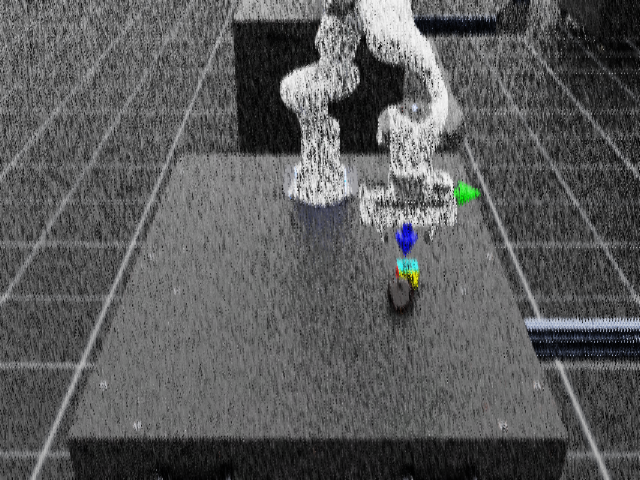
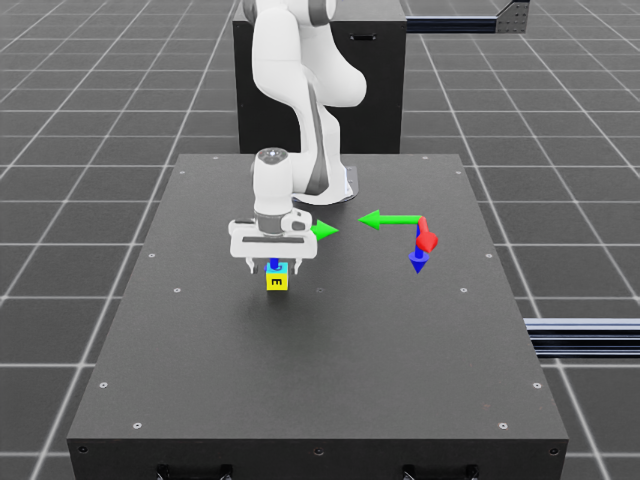
refactored grasping, controller working, visualization added

diff --git a/main.py b/main.py
@@ -41,55 +41,10 @@ from omni.isaac.lab.utils.math import subtract_frame_transforms, quat_from_matri
 from omni.isaac.lab.envs import ManagerBasedRLEnvCfg
 
 from planner import MotionPlanner
-from cleandakitchen import TestWrapper
+from customenv import TestWrapper
+from omegaconf import OmegaConf
+from customenv.cube_env import pos_and_quat_from_matrix
 
-# These are all things I tried to make curobo grasp correctly: 
-
-# def pos_and_quat_from_matrix(transform_mat):
-#     pos = transform_mat[:3, -1]
-#     quat = quat_from_matrix(transform_mat[:3, :3])
-#     return pos, quat
-
-def pos_and_quat_from_matrix(transform_mat):
-    transform_mat = np.array(transform_mat)  # Convert the list of lists to a numpy array
-    pos = torch.tensor(transform_mat[:3, -1], dtype=torch.float32)
-    quat = torch.tensor(transform_mat[:3, :3], dtype=torch.float32)  # Convert to tensor for further processing
-    quat_res = quat_from_matrix(quat)
-      # Quaternion representing a 180-degree rotation around the x-axis
-    quat_180_x = torch.tensor([0.0, 1.0, 0.0, 0.0], dtype=torch.float32)
-    # Rotate the quaternion by 180 degrees
-    rotated_quat = quaternion_multiply(quat_res, quat_180_x)
-    return quat, rotated_quat
-
-def quaternion_multiply(q, r):
-    w1, x1, y1, z1 = q
-    w2, x2, y2, z2 = r
-    w = w1 * w2 - x1 * x2 - y1 * y2 - z1 * z2
-    x = w1 * x2 + x1 * w2 + y1 * z2 - z1 * y2
-    y = w1 * y2 - x1 * z2 + y1 * w2 + z1 * x2
-    z = w1 * z2 + x1 * y2 - y1 * x2 + z1 * w2
-    return torch.tensor([w, x, y, z], dtype=torch.float32)
-# def quaternion_multiply(q, r):
-#     w1, x1, y1, z1 = q
-#     w2, x2, y2, z2 = r
-#     w = w1 * w2 - x1 * x2 - y1 * y2 - z1 * z2
-#     x = w1 * x2 + x1 * w2 + y1 * z2 - z1 * y2
-#     y = w1 * y2 - x1 * z2 + y1 * w2 + z1 * x2
-#     z = w1 * z2 + x1 * y2 - y1 * x2 + z1 * w2
-#     return torch.tensor([w, x, y, z], dtype=torch.float32)
-
-# def pos_and_quat_from_matrix(transform_mat):
-#     pos = torch.tensor(transform_mat[:3, -1], dtype=torch.float32)
-#     quat = torch.tensor(transform_mat[:3, :3], dtype=torch.float32)  # Convert to tensor for further processing
-#     quat_res = quat_from_matrix(quat)
-
-#     # Quaternion representing a 180-degree rotation around the x-axis
-#     quat_180_x = torch.tensor([0.0, 1.0, 0.0, 0.0], dtype=torch.float32)
-
-#     # Rotate the quaternion by 180 degrees
-#     rotated_quat = quaternion_multiply(quat_res, quat_180_x)
-
-#     return pos, rotated_quat
 
 def main():
     # create environment configuration
@@ -105,63 +60,68 @@ def main():
     print(f"[INFO]: Gym action space: {env.action_space}")
     # reset environment
     obs, info = env.reset()
-    camera_data = env.get_camera_data()
     planner = MotionPlanner(env)
+    # Temp fix to image rendering, so that it captures rgb correctly before entering.
+    for _ in range(10):
+        action = torch.tensor(env.action_space.sample()).to(env.device)
+        env.step(action)
     # simulate environment
     print("begin!")
     while simulation_app.is_running():
         # run everything in inference mode
         joint_pos, joint_vel, joint_names = env.get_joint_info()
-        meta_data, rgb, seg, depth = env.get_camera_data()
+        rgb, seg, depth, meta_data = env.get_camera_data()
         # Not always consistent, hit or miss, currently using 25 inference passes from M2T2 config
         cfg = OmegaConf.load("/home/jacob/projects/clean-up-the-kitchen/M2T2/config.yaml")
         data, outputs = load_and_predict(cfg, meta_data, rgb, depth, seg)
-
         # Visualize through meshcat-viewer
         visualize(cfg, data, outputs)
-        # Gives transformation matricies for each object
-        grasps = np.array(outputs['grasps'])
-        grasp_conf = torch.tensor(outputs['grasp_confidence'], dtype = torch.float32)
-        grasp_conf = outputs['grasp_confidence']
         # Currently only support for grasping one type of object in one environment
+        # So if there are four objects with different num grasps, it will not work.
+        if len(outputs['grasps']) > 0:
+            grasps = np.array(outputs['grasps'][0])  # Just the first object
+            grasp_conf = np.array(outputs['grasp_confidence'][0])
+            sorted_indices = np.argsort(grasp_conf)[::-1]  # Get indices sorted in descending order
+            grasps = grasps[sorted_indices]
 
-        if grasps.size > 0 and len(grasps[0]) == len(grasp_conf):
-            sorted_indices = sorted(range(len(grasp_conf)), key=lambda i: grasp_conf[i], reverse=True)
-            grasps = grasps[0][sorted_indices]
-            grasp_conf = [grasp_conf[i] for i in sorted_indices]
-        else:
-            print("Length of grasps and grasp_confidence do not match.")
-        sorted_indices = torch.argsort(grasp_conf, descending = True) 
-        grasps = grasps[sorted_indices]
-        success = False
-        for i in range(grasps[0].shape[0]):
-            best_grasp = grasps[0][i]
-            pos, quat = pos_and_quat_from_matrix(best_grasp)
-            goal = torch.cat([pos, quat], dim=0).unsqueeze(0).repeat(env.num_envs, 1).to(env.unwrapped.device)
-            plan, success = planner.plan(joint_pos, joint_vel, joint_names, goal, mode="ee_pose")
+            success = False
+            for i in range(grasps.shape[0]):
+                # import pdb
+                # pdb.set_trace()
+                best_grasp = torch.tensor(grasps[i], dtype = torch.float32)
+                # best_grasp = [[-0.9347, -0.3248, -0.1441,  0.7071],
+                #         [-0.2930,  0.9339, -0.2047,  0.0223],
+                #         [ 0.2010, -0.1492, -0.9682,  0.2013],
+                #         [ 0.0000,  0.0000,  0.0000,  1.0000]]
+                # best_grasp = torch.tensor(best_grasp)
+                # This pos and quat method is acting weirdly, why is all pos all 0?
+                pos, quat = pos_and_quat_from_matrix(best_grasp)
+                goal = torch.cat([pos, quat], dim=0).unsqueeze(0).repeat(env.num_envs, 1).to(env.unwrapped.device)
+                plan, success = planner.plan(joint_pos, joint_vel, joint_names, goal, mode="ee_pose")
+                if success:
+                    # print(f"Grasp {i} succeeded with confidence {grasp_conf[sorted_indices[i]]}")
+                    # print(f"Grasp {i} succeeded with confidence {grasp_conf[i]}")
+                    break
             if success:
-                # print(f"Grasp {i} succeeded with confidence {grasp_conf[sorted_indices[i]]}")
-                # print(f"Grasp {i} succeeded with confidence {grasp_conf[i]}")
-                break
-        if success:
-            with torch.inference_mode():
-                if not success:
-                    env.reset()
-                    continue
-                plan = planner.pad_and_format(plan)
-                for pose in plan:
-                    gripper = torch.ones(env.num_envs, 1).to(0)
-                    try:
-                        action = torch.cat((pose, gripper), dim=1)
-                    except:
-                        breakpoint()
-                        plan = planner.plan(joint_pos, joint_vel, joint_names, goal, mode="ee_pose")
-                    env.step(action)
+                with torch.inference_mode():
+                    if not success:
+                        env.reset()
+                        continue
+                    plan = planner.pad_and_format(plan)
+                    for pose in plan:
+                        gripper = torch.ones(env.num_envs, 1).to(0)
+                        try:
+                            action = torch.cat((pose, gripper), dim=1)
+                        except:
+                            breakpoint()
+                            plan = planner.plan(joint_pos, joint_vel, joint_names, goal, mode="ee_pose")
+                        
+                        # breakpoint()
+                    # action = torch.tensor(env.action_space.sample()).to(env.device)
+                        env.step(action)
         else:
             print("No successful grasp found")
-        env.close()
-
-            # env.reset()
+        #env.reset()
     # close the simulator
     env.close()
 

diff --git a/customenv/cube_env.py b/customenv/cube_env.py
@@ -42,7 +42,7 @@ class CubeSceneCfg(InteractiveSceneCfg):
         prim_path="{ENV_REGEX_NS}/Robot"
     )
 
-    # whole scene cant be 1 rigid object
+    # # whole scene cant be 1 rigid object
     object = RigidObjectCfg(
         prim_path="{ENV_REGEX_NS}/Object",
         init_state=RigidObjectCfg.InitialStateCfg(pos=[0.5, 0, 0.05], rot=[1, 0, 0, 0]),
@@ -61,6 +61,15 @@ class CubeSceneCfg(InteractiveSceneCfg):
         ),
     )
 
+    # Table
+    table = AssetBaseCfg(
+        prim_path="{ENV_REGEX_NS}/Table",
+        init_state=AssetBaseCfg.InitialStateCfg(pos=[0.5, 0, 0], rot=[0.707, 0, 0, 0.707]),
+        spawn=UsdFileCfg(
+            usd_path=f"{ISAAC_NUCLEUS_DIR}/Props/Mounts/SeattleLabTable/table_instanceable.usd",
+            # semantic_tags=[("class", "table")]
+            ),
+    )
 
     # plane
     plane = AssetBaseCfg(
@@ -113,43 +122,46 @@ class CubeSceneCfg(InteractiveSceneCfg):
             ],
         )
 
-        # parse and add USD
-        objs = {}
-        usd_path = "/home/arhan/Downloads/scene/model.usda"
-        # usd_path = "/home/arhan/Downloads/scene/model.usda"
-        usd_stage = Usd.Stage.Open(usd_path)
+        # # parse and add USD
+        # objs = {}
+        # usd_path = "/home/jacob/Downloads/test/model.usda"
+        # # usd_path = "/home/arhan/Downloads/scene/model.usda"
+        # usd_stage = Usd.Stage.Open(usd_path)
         
-        # rot = convert_orientation_convention(torch.tensor([1,0,0,0])[None], "world", "opengl").squeeze().tolist()
-        for entry in usd_stage.GetDefaultPrim().GetChildren()[:-1]:
-            name = entry.GetName()
-            transform = entry.GetChildren()[-1].GetAttribute("xformOp:transform").Get()
-            transform = torch.tensor(transform)
-            pos, quat = pos_and_quat_from_matrix(transform)
-            objs[name] = RigidObjectCfg(
-                prim_path=f"{{ENV_REGEX_NS}}/{name}",
-                init_state=RigidObjectCfg.InitialStateCfg(pos=pos, rot=quat),
-                spawn=usd_utils.CustomRigidUSDCfg(
-                    usd_path=usd_path,
-                    usd_sub_path=entry.GetPath().pathString,
-                    rigid_props=RigidBodyPropertiesCfg(kinematic_enabled=True),
-                    collision_props=CollisionPropertiesCfg(),
-                    semantic_tags=[("class", "obj")],
-                )
-            )
+        # # rot = convert_orientation_convention(torch.tensor([1,0,0,0])[None], "world", "opengl").squeeze().tolist()
+        # for entry in usd_stage.GetDefaultPrim().GetChildren()[:-1]:
+        #     name = entry.GetName()
+        #     transform = entry.GetChildren()[-1].GetAttribute("xformOp:transform").Get()
+        #     transform = torch.tensor(transform)
+        #     pos, quat = pos_and_quat_from_matrix(transform)
+        #     objs[name] = RigidObjectCfg(
+        #         prim_path=f"{{ENV_REGEX_NS}}/{name}",
+        #         init_state=RigidObjectCfg.InitialStateCfg(pos=pos, rot=quat),
+        #         spawn=usd_utils.CustomRigidUSDCfg(
+        #             usd_path=usd_path,
+        #             usd_sub_path=entry.GetPath().pathString,
+        #             rigid_props=RigidBodyPropertiesCfg(kinematic_enabled=True),
+        #             collision_props=CollisionPropertiesCfg(),
+        #             semantic_tags=[("class", "obj")],
+        #         )
+        #     )
         
-        for k, v in objs.items():
-            setattr(self, k, v)
+        # for k, v in objs.items():
+        #     setattr(self, k, v)
 
         
 
+# def pos_and_quat_from_matrix(transform_mat):
+#     pos = transform_mat[-1, :3]
+#     temp = pos.clone()
+#     pos[2] = temp[1]
+#     pos[1] = -temp[2]
+#     quat = math.quat_from_matrix(transform_mat[:3, :3])
+#     return pos, quat
 def pos_and_quat_from_matrix(transform_mat):
-    pos = transform_mat[-1, :3]
-    temp = pos.clone()
-    pos[2] = temp[1]
-    pos[1] = -temp[2]
+    pos = transform_mat[:3, -1].clone()
     quat = math.quat_from_matrix(transform_mat[:3, :3])
     return pos, quat
-
 
 
 @configclass

diff --git a/customenv/wrapper.py b/customenv/wrapper.py
@@ -7,6 +7,7 @@ from .utils import misc_utils
 from gymnasium import Wrapper
 from omni.isaac.lab.managers import SceneEntityCfg
 from omni.isaac.lab.envs import ManagerBasedRLEnv
+from PIL import Image
 
 class TestWrapper(Wrapper):
     def __init__(self, env: ManagerBasedRLEnv):
@@ -30,12 +31,19 @@ class TestWrapper(Wrapper):
         return joint_pos, joint_vel, joint_names
 
     def get_camera_data(self):
+        
         # RGB Image
         rgb = self.scene["camera"].data.output["rgb"]
 
+        
         # Mask 
         seg = self.scene["camera"].data.output["semantic_segmentation"]
         mask = torch.clamp(seg-1, max=1).cpu().numpy().astype(np.uint8) * 255
+        
+        # For debugging purposes
+        save_dir = "/home/jacob/projects/clean-up-the-kitchen/data"
+        Image.fromarray(rgb[0].cpu().numpy()).convert("RGB").save(f"{save_dir}/rgb.png")
+        Image.fromarray(mask[0], mode="L").save(f"{save_dir}/seg.png")
 
         # Depth values per pixel
         depth = self.scene["camera"].data.output["distance_to_image_plane"]

diff --git a/grasp_utils.py b/grasp_utils.py
@@ -42,6 +42,7 @@ def load_and_predict(cfg, meta_data, rgb, depth, seg):
         'placement_confidence': [],
         'placement_contacts': []
     }
+    # Aggregates results (grasps)
     for _ in range(cfg.eval.num_runs):
         pt_idx = sample_points(xyz, cfg.data.num_points)
         data['inputs'] = inputs[pt_idx]
@@ -68,12 +69,12 @@ def load_and_predict(cfg, meta_data, rgb, depth, seg):
 def load_rgb_xyz(
     meta_data, rgb, depth, seg, robot_prob, world_coord, jitter_scale, grid_res, surface_range=0
 ):
-    depth = depth[0]
+    depth = depth[0].cpu()
     normalized_rgb = normalize_rgb(rgb[0][:, :, :3].float().cpu().numpy() / 255.0)
     xyz = torch.from_numpy(
-        depth_to_xyz(depth, meta_data['intrinsics'])
+        depth_to_xyz(depth.cpu().numpy(), meta_data['intrinsics'])
     ).float()
-    seg = torch.from_numpy(np.array(seg.cpu()))
+    seg = torch.from_numpy(seg)
     normalized_rgb = normalized_rgb.permute(1, 2, 0)
     label_map = meta_data['label_map']
 

diff --git a/planner.py b/planner.py
@@ -105,7 +105,6 @@ class MotionPlanner:
 
         goal_pos = torch.tensor(goal[:, 0:3], device=self.device)
         goal_orientation = torch.tensor(goal[:, 3:7], device=self.device)
-
         #     joint_pos_des
         #compute curobo sol
         ik_goal = Pose(
@@ -115,7 +114,11 @@ class MotionPlanner:
         self.plan_config.pose_cost_metric = None
         # result = self.motion_gen.plan_single(cu_js, ik_goal[0], self.plan_config)
         result = self.motion_gen.plan_batch_env(cu_js, ik_goal, self.plan_config.clone())
-        if result.status ==MotionGenStatus.TRAJOPT_FAIL:
+        if result.status == MotionGenStatus.TRAJOPT_FAIL:
+            print('TRAJOPT_FAIL')
+            return None, False
+        if result.status == MotionGenStatus.IK_FAIL:
+            print("IK FAILURE")
             return None, False
         traj = result.get_paths()
         if mode == "joint_pos":
